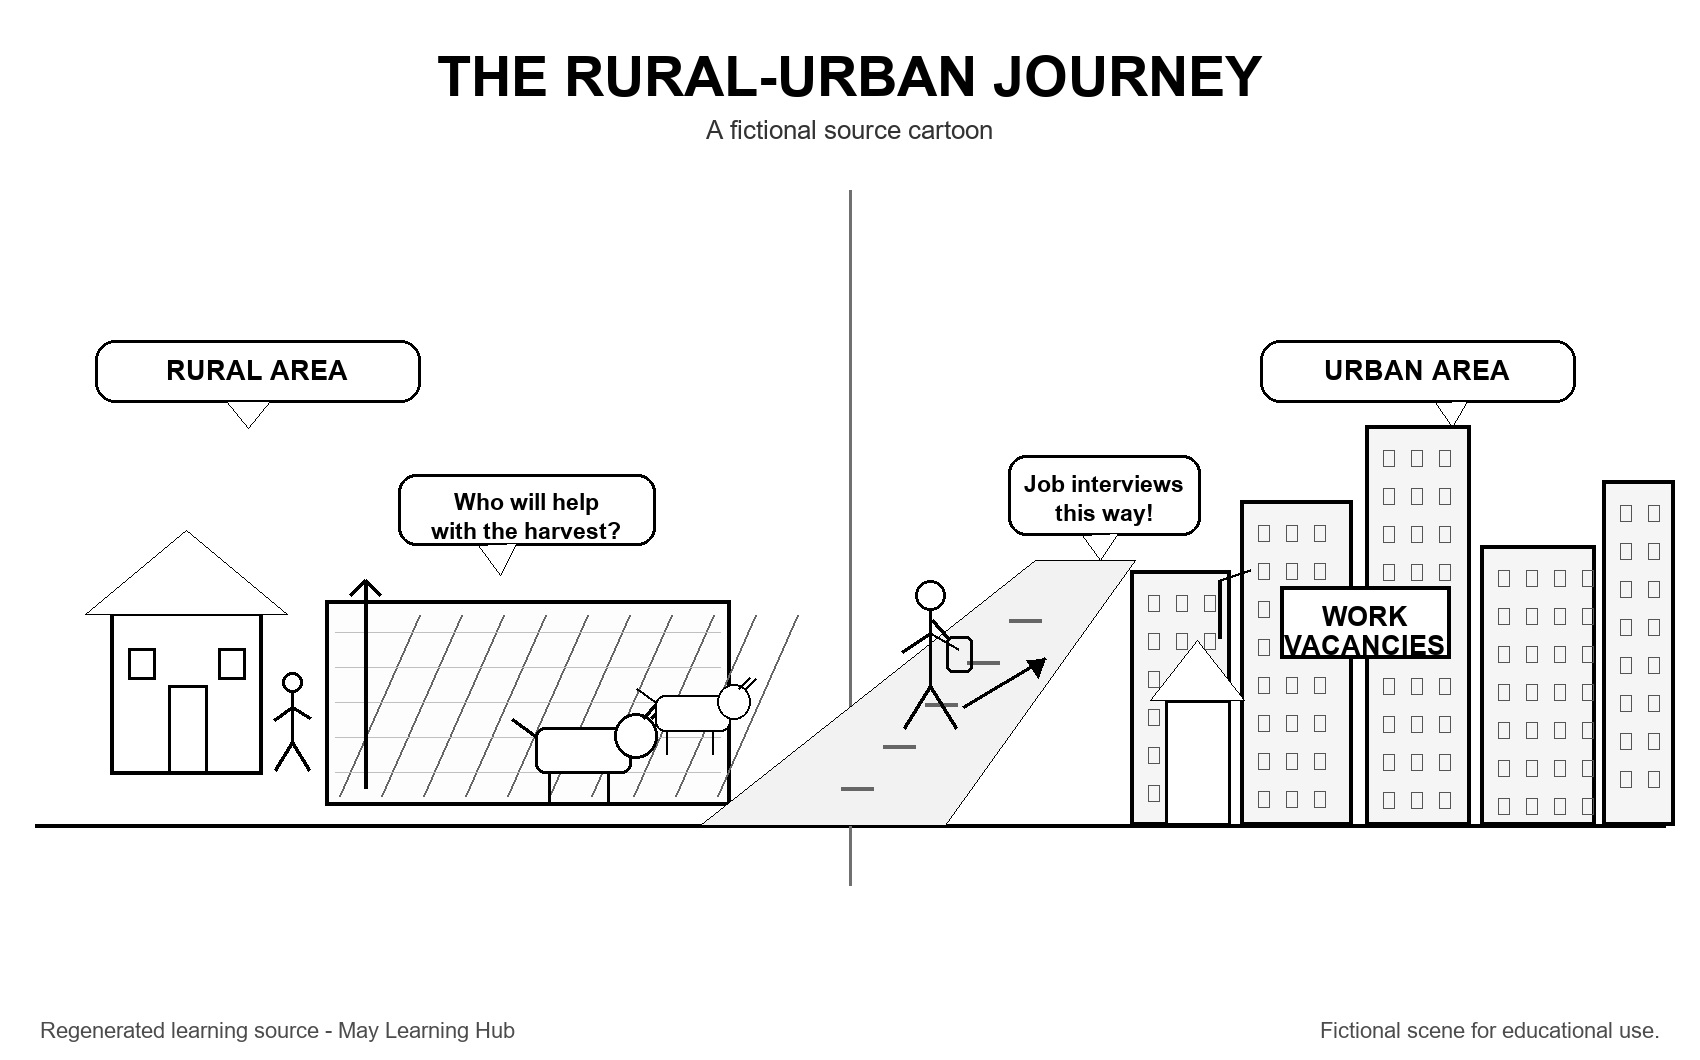
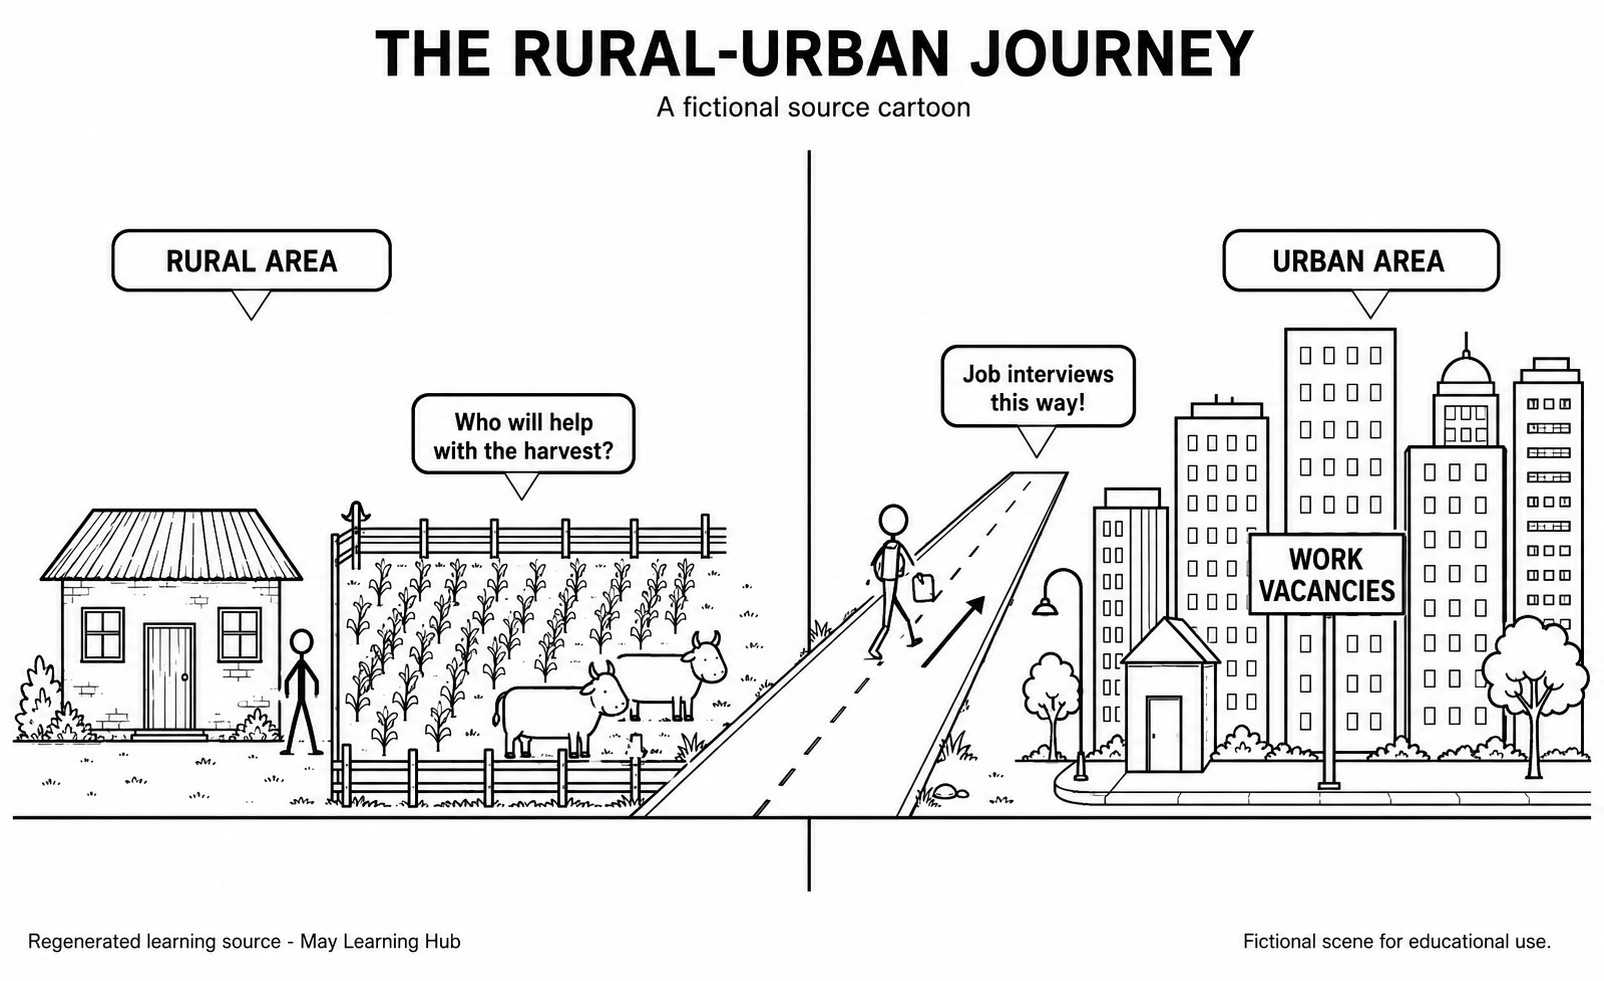
update

diff --git a/index.html b/index.html
@@ -1066,7 +1066,9 @@ display: none;
 
 }
 
-.profile-menu button {
+.profile-menu button,
+
+.profile-menu a {
 
 width: auto;
 
@@ -1096,25 +1098,35 @@ cursor: pointer;
 
 }
 
-.profile-menu button:hover {
+.profile-menu a {
+
+text-decoration: none;
+
+}
+
+.profile-menu button:hover,
+
+.profile-menu a:hover {
 
 background: #edf5ff;
 
 }
 
-.profile-menu button.user-signout-btn {
+.profile-menu-identity {
 
-background: transparent;
+margin: 0.15rem 0.18rem 0.4rem;
 
-border: none;
+padding: 0.28rem 0.52rem 0.5rem;
 
-color: #9f1d1d;
+border-bottom: 1px solid #dce7f2;
 
-}
+color: #526174;
 
-.profile-menu button.user-signout-btn:hover {
+font-size: 0.76rem;
 
-background: #fff0f0;
+font-weight: 700;
+
+line-height: 1.35;
 
 }
 
@@ -4077,17 +4089,21 @@ transition: none !important;
 
 <div id="profile-menu-wrap" class="profile-menu-wrap" style="display: none;">
 
-<button id="user-display-btn" class="user-profile-btn" type="button" aria-haspopup="menu" aria-expanded="false" aria-controls="profile-menu">User Name</button>
+<button id="user-display-btn" class="user-profile-btn" type="button" aria-haspopup="menu" aria-expanded="false" aria-controls="profile-menu" aria-label="Open profile menu">Profile</button>
 
 <div id="profile-menu" class="profile-menu" role="menu" hidden>
 
+<p id="profile-menu-identity" class="profile-menu-identity">Signed in</p>
+
 <button id="edit-profile-btn" type="button" role="menuitem">Edit Profile</button>
 
-<button id="btn-signout" class="user-signout-btn" type="button" role="menuitem">Sign Out</button>
+<a id="certificate-history-link" href="certificate-history.html" role="menuitem">Certificate History</a>
 
 </div>
 
 </div>
+
+<button id="btn-signout" class="user-signout-btn" type="button" style="display: none;">Sign Out</button>
 
 
 
@@ -5284,6 +5300,7 @@ const userDisplayBtn = document.getElementById('user-display-btn');
 const profileMenuWrap = document.getElementById('profile-menu-wrap');
 const profileMenu = document.getElementById('profile-menu');
 const editProfileBtn = document.getElementById('edit-profile-btn');
+const profileMenuIdentity = document.getElementById('profile-menu-identity');
 const btnSignout = document.getElementById('btn-signout');
 const profileModal = document.getElementById('profile-modal');
 const profileFullName = document.getElementById('profileFullName');
@@ -5336,9 +5353,17 @@ function showSignedInControls(user) {
     if (btnSignin) btnSignin.style.display = user ? 'none' : 'inline-block';
     if (userDisplayBtn) {
         userDisplayBtn.style.display = user ? 'inline-block' : 'none';
-        userDisplayBtn.textContent = user ? (user.displayName || (user.email ? user.email.split('@')[0] : 'Student')) : '';
+        userDisplayBtn.textContent = 'Profile';
+        const displayName = user ? (user.displayName || (user.email ? user.email.split('@')[0] : 'Student')) : '';
+        userDisplayBtn.setAttribute('aria-label', displayName ? 'Open profile menu for ' + displayName : 'Open profile menu');
+    }
+    if (profileMenuIdentity) {
+        profileMenuIdentity.textContent = user
+            ? 'Signed in as ' + (user.displayName || user.email || 'Learner')
+            : 'Signed in';
     }
     if (profileMenuWrap) profileMenuWrap.style.display = user ? 'inline-block' : 'none';
+    if (btnSignout) btnSignout.style.display = user ? 'inline-block' : 'none';
     if (!user) closeProfileMenu();
 }
 

diff --git a/may-certificate-actions.js b/may-certificate-actions.js
@@ -9,7 +9,7 @@
     const MAX_CERTIFICATE_BYTES = 12 * 1024 * 1024;
     const MODERN_REPLY_TIMEOUT_MS = 10000;
     const CERTIFICATE_DOWNLOAD_CACHE = 'may-learning-certificate-downloads';
-    const SERVICE_WORKER_VERSION = '51-grade11-premium-certificate-refinement';
+    const SERVICE_WORKER_VERSION = '52-profile-menu-development-quest';
     const pendingRequests = new Map();
     const actionsScriptSource = document.currentScript && document.currentScript.src ? document.currentScript.src : '';
     const actionsSiteRoot = actionsScriptSource ? new URL('.', actionsScriptSource) : null;

diff --git a/sw.js b/sw.js
@@ -1,8 +1,8 @@
-const CORE_CACHE_NAME = 'may-learning-core-v34-grade11-premium-certificate-refinement';
+const CORE_CACHE_NAME = 'may-learning-core-v35-profile-menu-development-quest';
 const RUNTIME_CACHE_NAME = 'may-learning-runtime-pages';
 const CERTIFICATE_DOWNLOAD_CACHE = 'may-learning-certificate-downloads';
 const CERTIFICATE_DOWNLOAD_PATH = '/certificate-download/';
-const SERVICE_WORKER_VERSION = '51-grade11-premium-certificate-refinement';
+const SERVICE_WORKER_VERSION = '52-profile-menu-development-quest';
 
 const CORE_ASSETS = [
   '/may-certificate-actions.js',

diff --git a/Geography/Term-3/Grade-11/Games/Assessment Games/assessment-games.html b/Geography/Term-3/Grade-11/Games/Assessment Games/assessment-games.html
@@ -391,7 +391,7 @@
 
             <a href="GeoQuest/GeoQuest.html" class="game-card">
                 <div class="game-icon" aria-hidden="true">&#129517;</div>
-                <h3>GeoQuest: The Grand Expedition</h3>
+                <h3>GeoQuest: The Development Expedition</h3>
                 <p style="margin-bottom: 1rem; color: #566575;">Complete all five source-based stages, earn a score out of 60 and receive your professional expedition certificate.</p>
                 <span class="play-btn">Begin GeoQuest &rarr;</span>
             </a>

diff --git a/Geography/Term-3/Grade-11/Games/Assessment Games/GeoQuest/generate-stage5-source.py b/Geography/Term-3/Grade-11/Games/Assessment Games/GeoQuest/generate-stage5-source.py
@@ -79,7 +79,7 @@ draw_paragraph(draw, (96, 985), "Save lives, prevent malnutrition and stabilise 
 draw.line((566, 943, 566, 1094), fill="#c7d7e6", width=3)
 draw.text((610, 943), "SAFEGUARDS", font=SEMIBOLD, fill="#a05a00")
 draw_paragraph(draw, (610, 985), "Monitor delivery to limit corruption, dependency and the risk of aid worsening conflict.", SMALL, 390, ink, 7)
-draw.text((60, 1162), "Created for source analysis in GeoQuest: The Grand Expedition", font=SMALL, fill=muted)
+draw.text((60, 1162), "Created for source analysis in GeoQuest: The Development Expedition", font=SMALL, fill=muted)
 
 OUTPUT.parent.mkdir(parents=True, exist_ok=True)
 canvas.save(OUTPUT, format="JPEG", quality=94, optimize=True, progressive=True)
